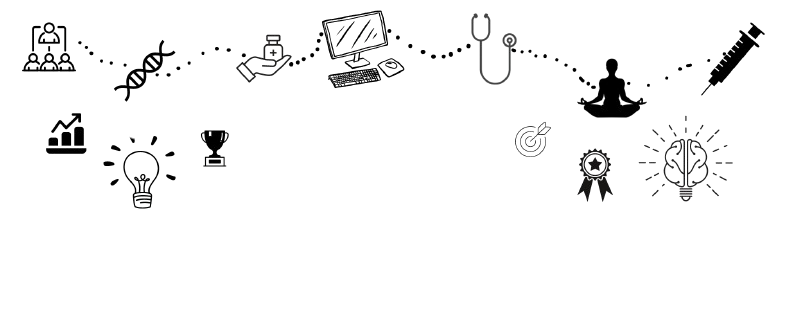
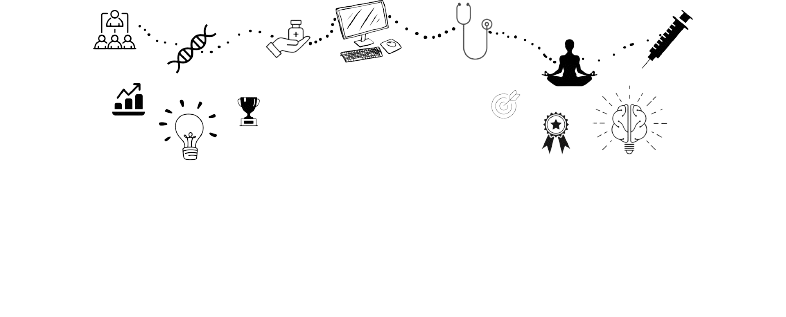
added doodles to bg of parallax

diff --git a/client/src/components/parallax/Parallax.jsx b/client/src/components/parallax/Parallax.jsx
@@ -13,6 +13,7 @@ const Parallax = ({ type }) => {
   const yText = useTransform(scrollYProgress, [0, 1], ["0%", "500%"]);
   const sunbg = useTransform(scrollYProgress, [0, 1], ["0%", "-400%"]);
   const yBg = useTransform(scrollYProgress, [0, 1], ["0%", "100%"]);
+  const xBg = useTransform(scrollYProgress, [0, 1], ["0%", "-100%"]);
 
   return (
     <div
@@ -27,6 +28,7 @@ const Parallax = ({ type }) => {
       src="/younite-logo.png"/>
       <motion.div className="student"></motion.div>
       <motion.div style={{ x: yBg , y: sunbg}} className="stars"></motion.div>
+      <motion.div style={{ x: xBg }} className="doodles"></motion.div>
     </div>
   );
 };

diff --git a/client/src/components/parallax/Parallax.scss b/client/src/components/parallax/Parallax.scss
@@ -39,10 +39,19 @@
         opacity: 0.7;
         background-size: cover;
         width: 100%;
-        height: 100%;
+        height: 110%;
         position: absolute;
         z-index: -1;
         top: 15%;
-
+    }
+    .doodles {
+        background-image: url("/paralaxbg.png");
+        opacity: 0.1;
+        background-size: cover;
+        width: 100%;
+        height: 100%;
+        position: absolute;
+        z-index: -2;
+        top: 0%;
     }
 }
